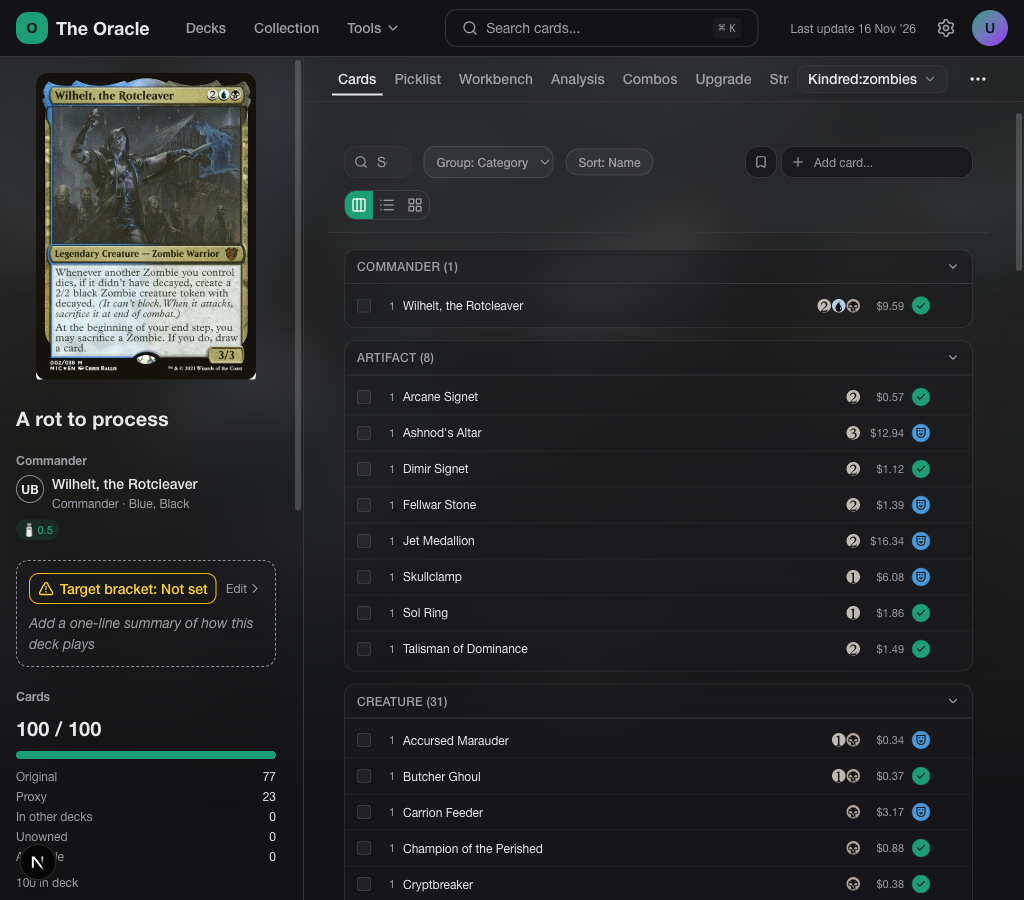
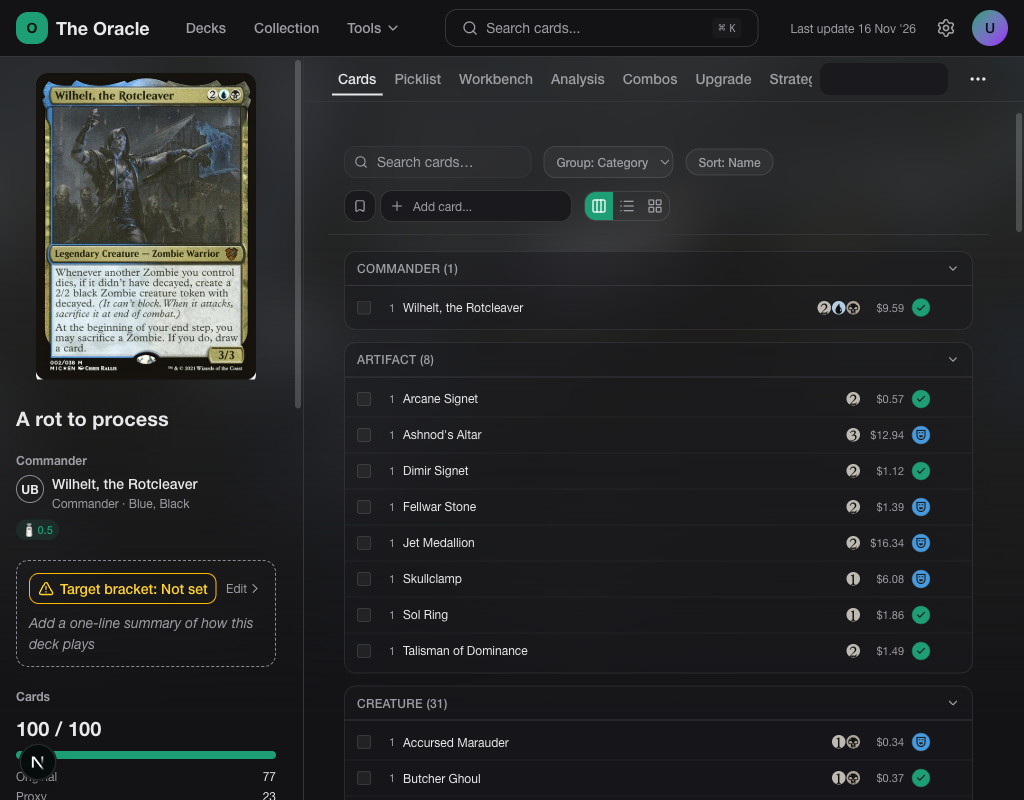
fix: cards toolbar search keeps 160px min width beside the rail
Checked: browser 819 and 1024 on 2 decks, search field 160/187px; vitest src/components 957 passed; tsc 4 pre-existing errors

diff --git a/src/components/CardsTab.tsx b/src/components/CardsTab.tsx
@@ -633,7 +633,7 @@ function CardsTabInner({ cards, deckId, scrollToCategory, maxCopies = 1, command
         <div className="mx-auto flex flex-wrap max-w-[var(--content-max-width)] items-center gap-2 md:gap-3">
           {/* Tab mode segmented control */}
           {/* Search input */}
-          <div className="relative max-w-[260px] flex-1">
+          <div className="relative min-w-[160px] max-w-[260px] flex-1">
             <Search
               className="pointer-events-none absolute left-2.5 top-1/2 size-3.5 -translate-y-1/2 text-muted-foreground"
               aria-hidden="true"

diff --git a/docs/oracle/reports/2026-11-19-developer-rail-width-fix.md b/docs/oracle/reports/2026-11-19-developer-rail-width-fix.md
@@ -30,6 +30,7 @@ Screenshots: docs/oracle/reports/evidence/slice-3-rail-widths/ (`<deck>-<width>.
 - Not changed: at exactly 800 px the rail shows; the spec said "720 and below" compact, so "below 800" is now the rule.
 
 ## Changed files
+- src/components/CardsTab.tsx — card search field gets a 160 px minimum width, so the toolbar wraps whole controls instead of squeezing the field to a stub (seen at 1024 with the rail). Re-captured 819 and 1024 for both decks.
 - src/app/decks/[id]/page.tsx, src/components/deck-rail/DeckRail.tsx, src/components/DeckViewSkeleton.tsx — switch 720 to 800; tab row scrolls
 - src/components/deck-rail/railBreakpoint.test.ts — new, pins the single switch point and the rail rules
 - docs/oracle/specs/deck-rail-strategy-tags.md — section 5 switch point 800
@@ -44,6 +45,8 @@ Screenshots: docs/oracle/reports/evidence/slice-3-rail-widths/ (`<deck>-<width>.
 ## Challenges to locked decisions
 - none
 
+## Design choices flagged, not changed
+- At 1024 the Strategy tab is partly cut off because the tab row scrolls sideways; it gives no hint that it scrolls.
 ## Open questions
 - none
 
